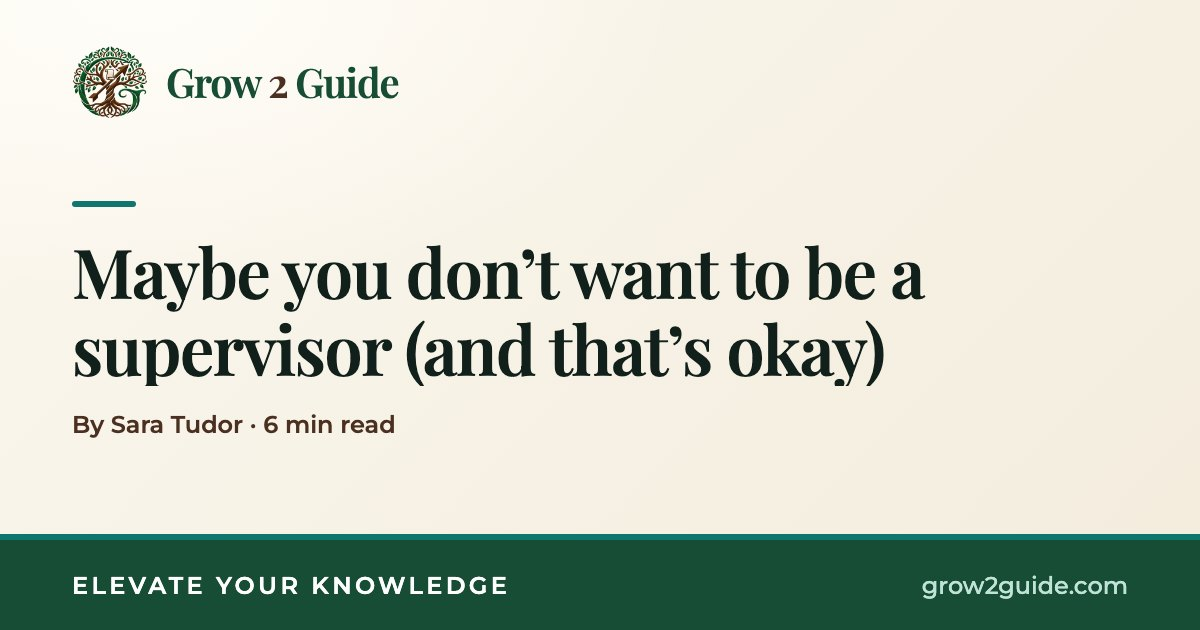
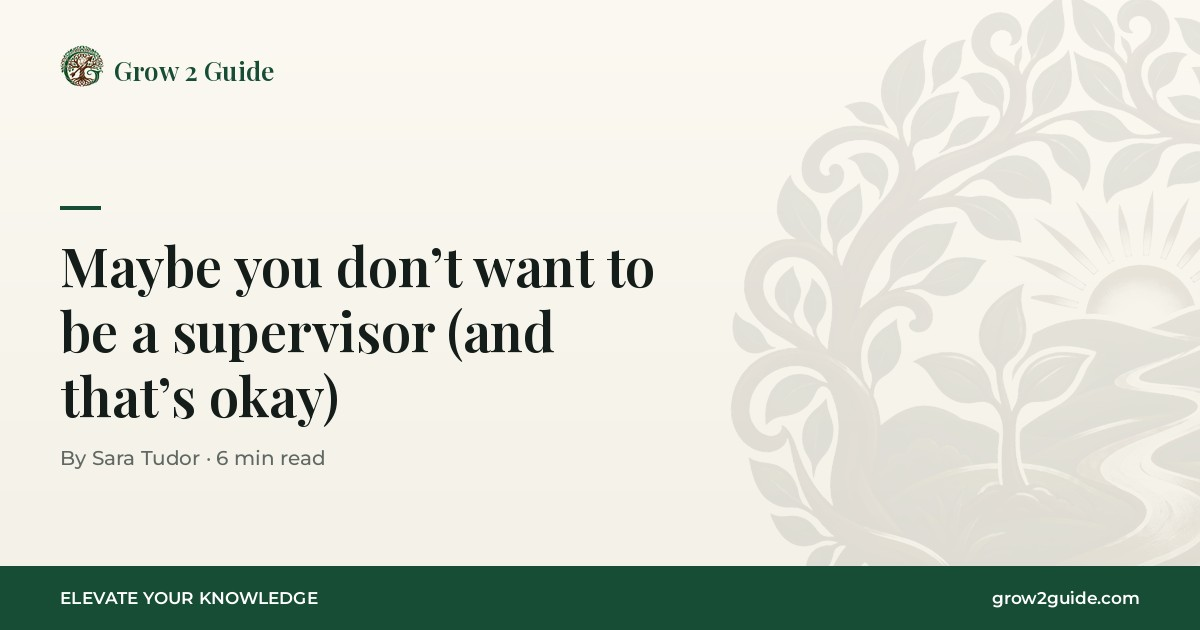
Blog covers: faded section emblems behind the title
Replaces the seven text-only link-preview images in assets/og/ with the
same layout plus a faded Grow2Guide emblem for the post's section
(lantern = Policy & Practice, clipboard = On the Record, path = Career &
Wellbeing, clock for the lateness post). File names are unchanged, so
no page needs editing.

Adds assets/substack/ (1456x1048 Substack covers, title centred so the
square crop keeps it) and assets/emblems/ (the section emblems).

Claude-Session: https://claude.ai/code/session_012x11oM3J8NTyFjenmMDyp9

diff --git a/README.md b/README.md
@@ -27,6 +27,9 @@ and links work on nested pages.
 - `terms/`, `privacy/`, `refunds/`: policy pages.
 - `styles.css` and page-level `<style>` blocks: site styling.
 - `assets/`: images, documents, and JavaScript.
+  `assets/og/` holds each blog post's link-preview image (1200×630); `assets/substack/` the matching Substack cover
+  (1456×1048, title centred so Substack's square crop keeps it); `assets/emblems/` the section emblems they use:
+  lantern = Policy & Practice, clipboard = On the Record, path = Career & Wellbeing (key and clock are extras).
 - `archive/`: historical page snapshots.
 - `sitemap.xml` and `robots.txt`: search-engine crawl hints.
 - `CNAME` and `.nojekyll`: GitHub Pages hosting configuration.
